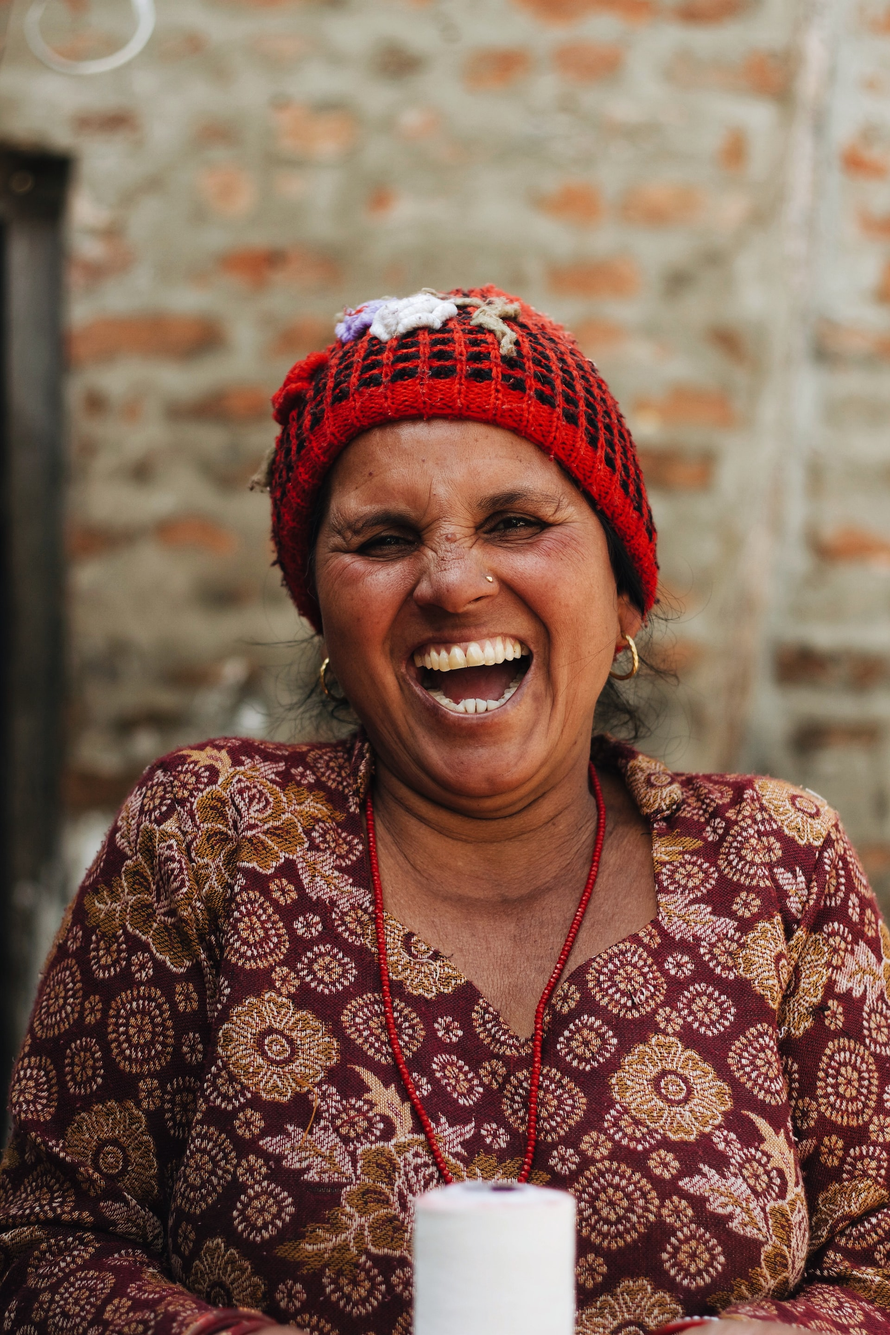
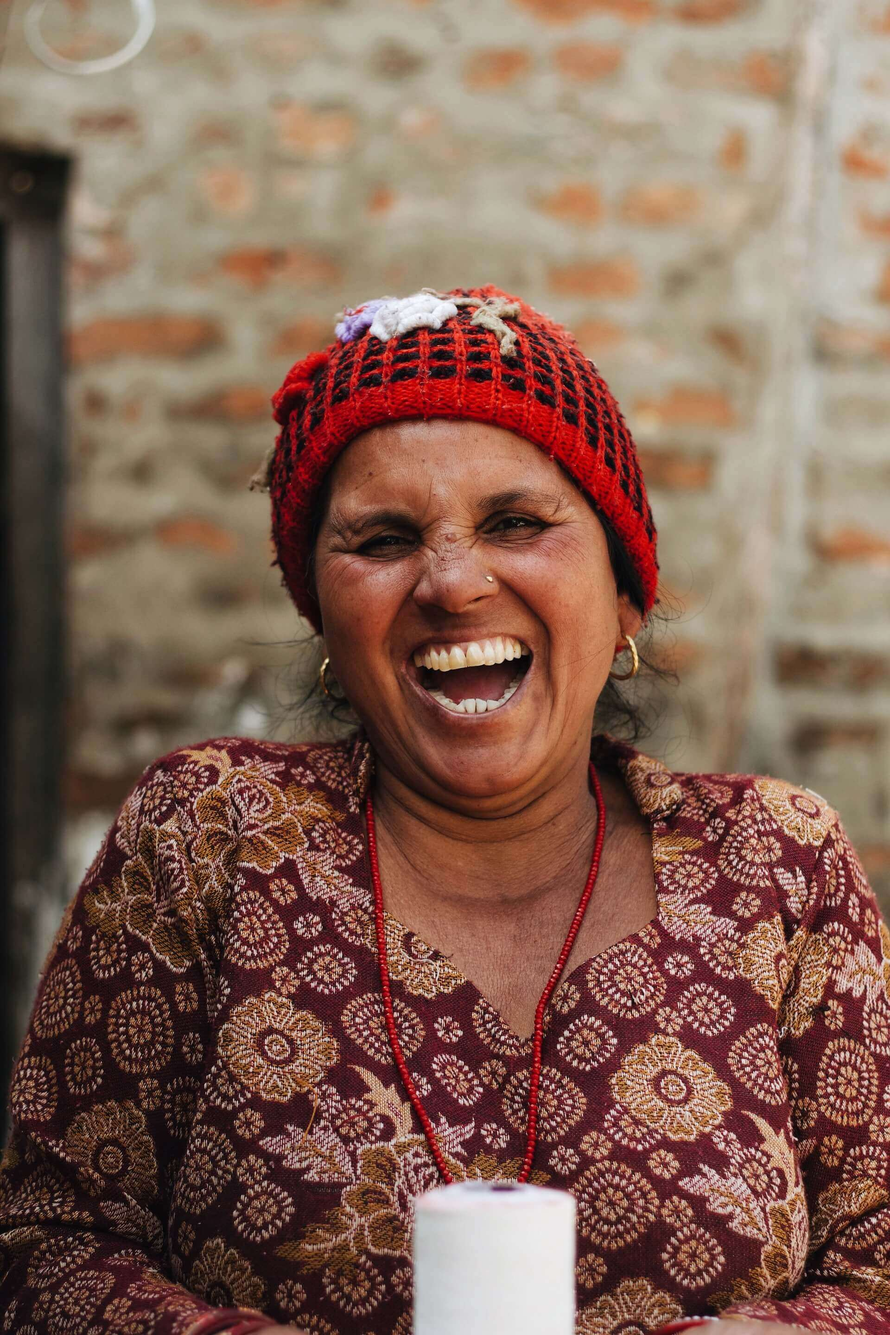
optimised images

Changed region(s): [[0.2812, 0.75, 0.3438, 0.7812], [0.6875, 0.7188, 0.7188, 0.75], [0.4688, 0.7188, 0.5, 0.75]]

diff --git a/css/main.css b/css/main.css
@@ -592,10 +592,6 @@ video {
   top: 0px;
 }
 
-.top-11 {
-  top: 2.75rem;
-}
-
 .mx-auto {
   margin-left: auto;
   margin-right: auto;
@@ -609,28 +605,8 @@ video {
   margin-top: 1.25rem;
 }
 
-.mb-32 {
-  margin-bottom: 8rem;
-}
-
-.mt-32 {
-  margin-top: 8rem;
-}
-
 .mb-16 {
   margin-bottom: 4rem;
-}
-
-.mb-8 {
-  margin-bottom: 2rem;
-}
-
-.mb-20 {
-  margin-bottom: 5rem;
-}
-
-.mt-8 {
-  margin-top: 2rem;
 }
 
 .block {
@@ -675,10 +651,6 @@ video {
 
 .w-4 {
   width: 1rem;
-}
-
-.w-full {
-  width: 100%;
 }
 
 .max-w-md {
@@ -777,18 +749,6 @@ video {
   margin-left: calc(1rem * calc(1 - var(--tw-space-x-reverse)));
 }
 
-.divide-y-8 > :not([hidden]) ~ :not([hidden]) {
-  --tw-divide-y-reverse: 0;
-  border-top-width: calc(8px * calc(1 - var(--tw-divide-y-reverse)));
-  border-bottom-width: calc(8px * var(--tw-divide-y-reverse));
-}
-
-.divide-y > :not([hidden]) ~ :not([hidden]) {
-  --tw-divide-y-reverse: 0;
-  border-top-width: calc(1px * calc(1 - var(--tw-divide-y-reverse)));
-  border-bottom-width: calc(1px * var(--tw-divide-y-reverse));
-}
-
 .divide-gray-400 > :not([hidden]) ~ :not([hidden]) {
   --tw-divide-opacity: 1;
   border-color: rgb(156 163 175 / var(--tw-divide-opacity));
@@ -820,21 +780,6 @@ video {
 
 .border-t {
   border-top-width: 1px;
-}
-
-.border-gray-400 {
-  --tw-border-opacity: 1;
-  border-color: rgb(156 163 175 / var(--tw-border-opacity));
-}
-
-.border-lightGray {
-  --tw-border-opacity: 1;
-  border-color: rgb(89 91 95 / var(--tw-border-opacity));
-}
-
-.border-middleLightGray {
-  --tw-border-opacity: 1;
-  border-color: rgb(242 242 242 / var(--tw-border-opacity));
 }
 
 .border-veryLightGray {
@@ -889,6 +834,11 @@ video {
   padding-right: 1rem;
 }
 
+.py-8 {
+  padding-top: 2rem;
+  padding-bottom: 2rem;
+}
+
 .px-1 {
   padding-left: 0.25rem;
   padding-right: 0.25rem;
@@ -904,29 +854,14 @@ video {
   padding-bottom: 0.25rem;
 }
 
-.py-6 {
-  padding-top: 1.5rem;
-  padding-bottom: 1.5rem;
-}
-
-.py-10 {
-  padding-top: 2.5rem;
-  padding-bottom: 2.5rem;
-}
-
-.py-16 {
-  padding-top: 4rem;
-  padding-bottom: 4rem;
-}
-
-.py-8 {
-  padding-top: 2rem;
-  padding-bottom: 2rem;
-}
-
 .py-4 {
   padding-top: 1rem;
   padding-bottom: 1rem;
+}
+
+.py-6 {
+  padding-top: 1.5rem;
+  padding-bottom: 1.5rem;
 }
 
 .pt-2 {
@@ -1041,10 +976,6 @@ video {
     display: flex;
   }
 
-  .sm\:hidden {
-    display: none;
-  }
-
   .sm\:h-10 {
     height: 2.5rem;
   }
@@ -1124,10 +1055,6 @@ video {
 @media (min-width: 1024px) {
   .lg\:flex {
     display: flex;
-  }
-
-  .lg\:hidden {
-    display: none;
   }
 
   .lg\:w-1\/2 {

diff --git a/index.html b/index.html
@@ -246,7 +246,7 @@
                                     <a href="#" class="hidden px-1 text-lightGray bg-middleLightGray rounded hover:bg-veryLightGray md:flex">Technology</a>
                             </div>
                         </div>
-                        <img src="images/post-image-3.jpg" class="rounded-lg h-32 w-32 object-cover" alt="hero-image">
+                        <img src="images/post-image-2.jpg" class="rounded-lg h-32 w-32 object-cover" alt="hero-image">
                     </div>
                 </div>
                 <!--End left items-->
